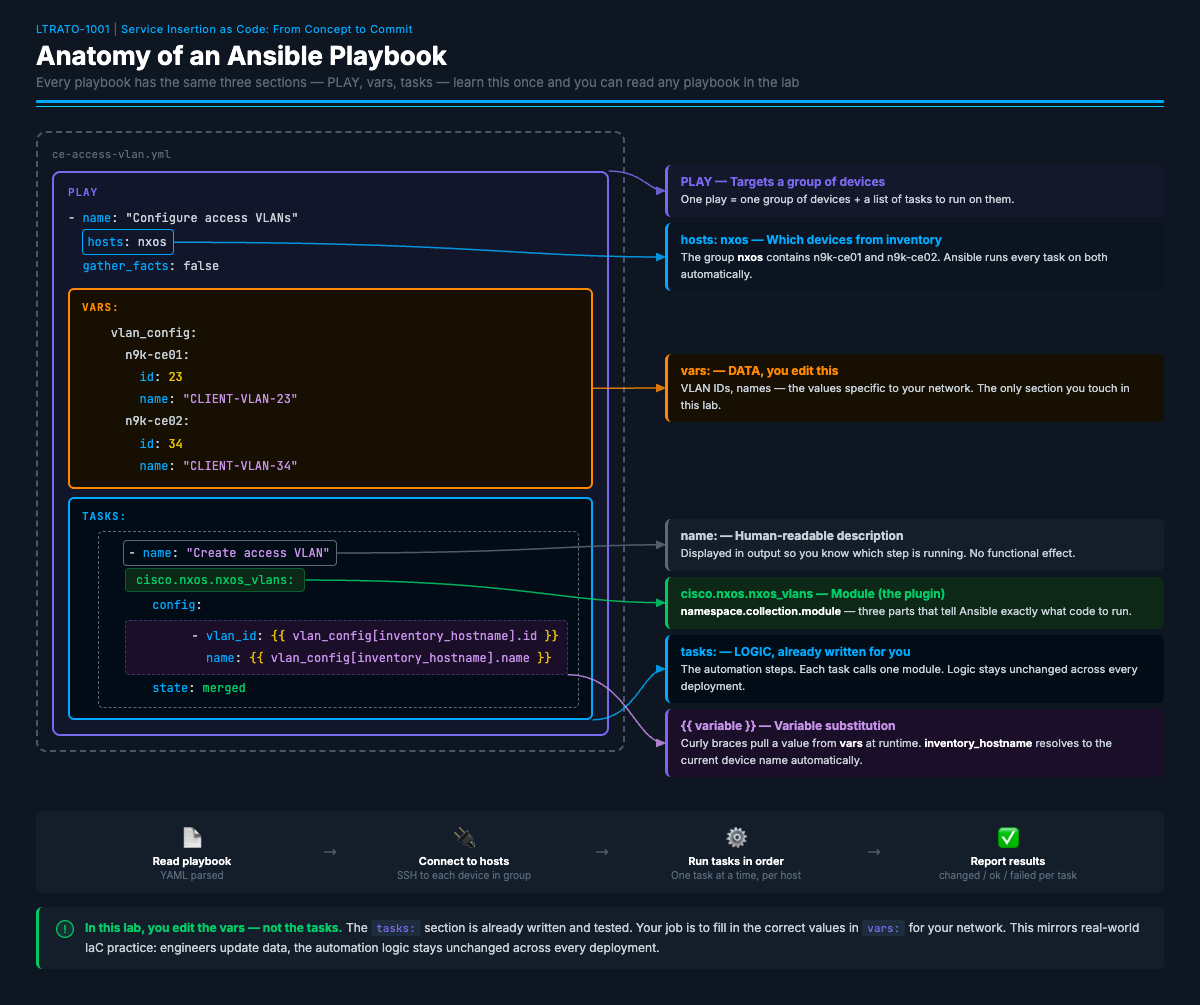
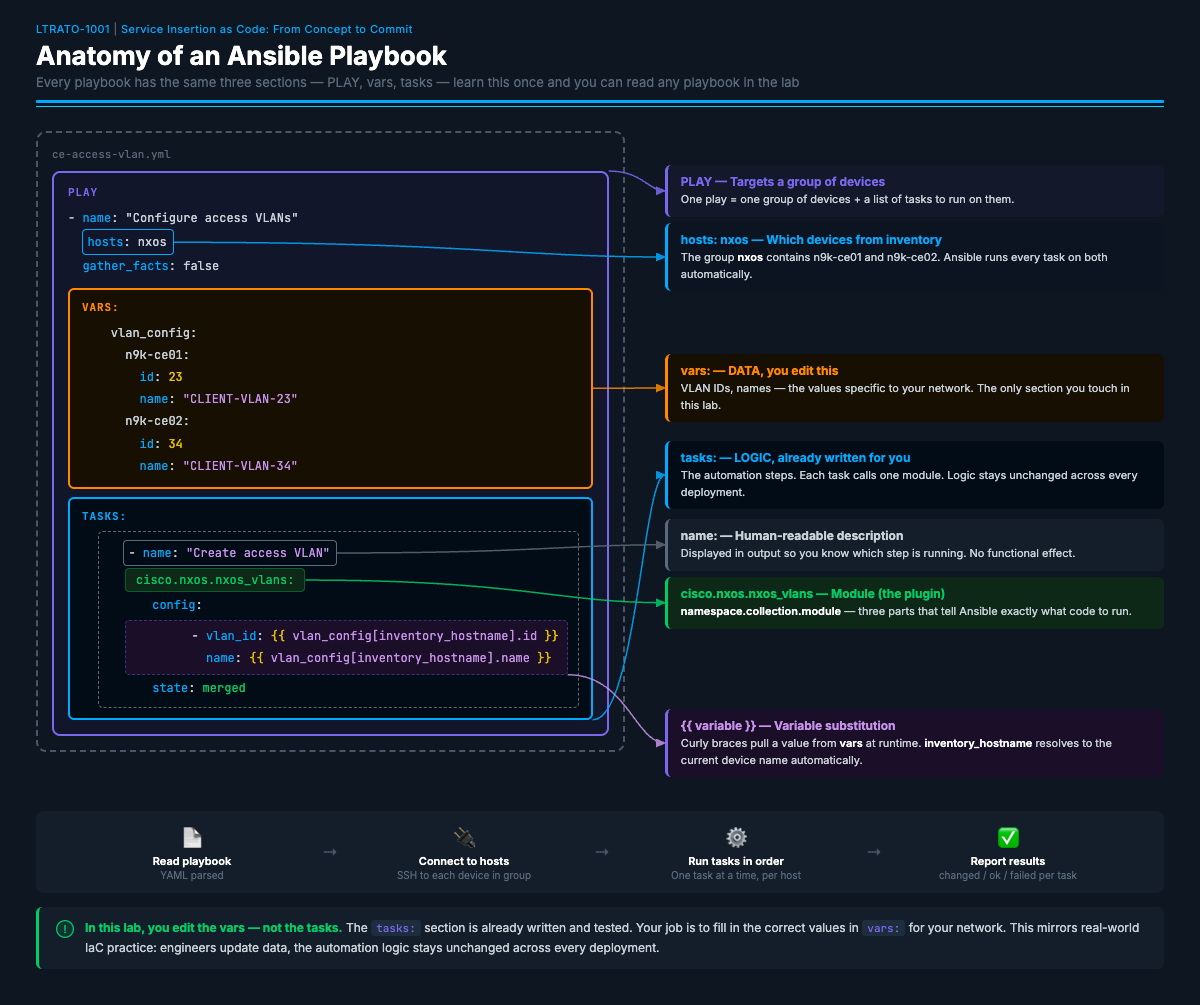
fix: move tasks callout above name/module to prevent arrow crossings

Changed region(s): [[0.5242, 0.4318, 0.9558, 0.4935], [0.5242, 0.6478, 0.9558, 0.7095]]

diff --git a/primer-playbook-anatomy.html b/primer-playbook-anatomy.html
@@ -231,7 +231,7 @@
         <div class="callout-title">vars: — DATA, you edit this</div>
         <div class="callout-desc">VLAN IDs, names — the values specific to your network. The only section you touch in this lab.</div>
       </div>
-      <div class="callout c-tasks"  id="c-tasks"  style="top:504px;">
+      <div class="callout c-tasks"  id="c-tasks"  style="top:310px;">
         <div class="callout-title">tasks: — LOGIC, already written for you</div>
         <div class="callout-desc">The automation steps. Each task calls one module. Logic stays unchanged across every deployment.</div>
       </div>
